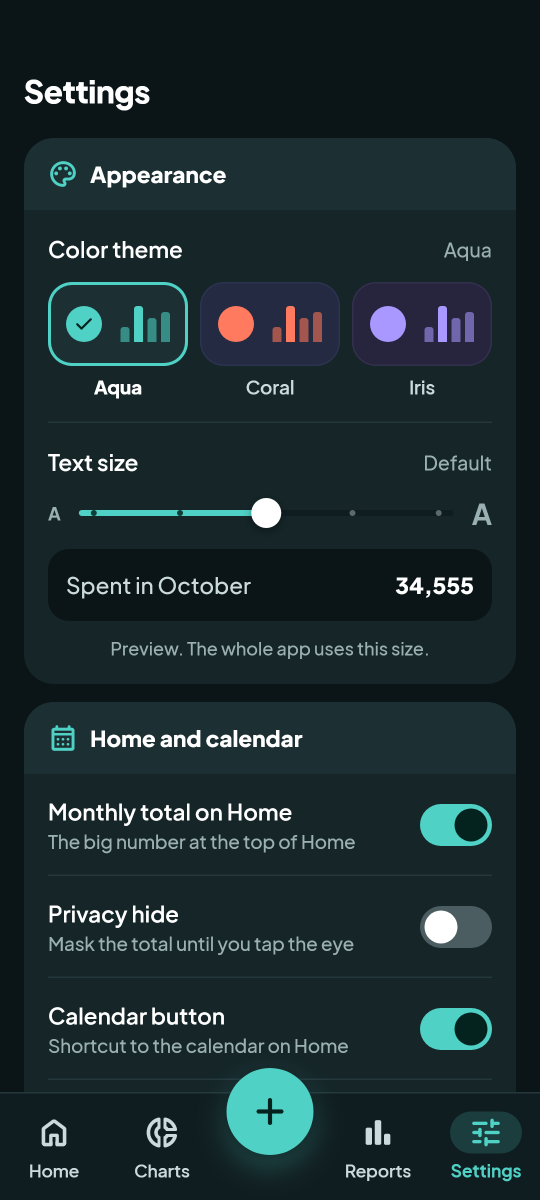
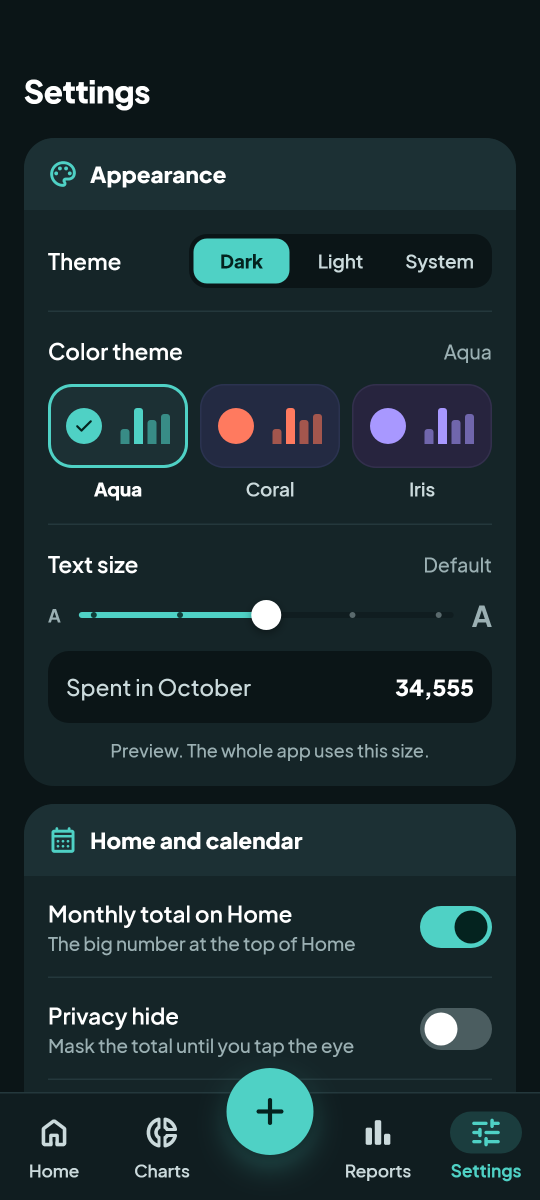
README: light mode screenshot, refreshed pictures, update notes
Add a light.png scene (Home in Aqua light) to the README shots test and
regenerate the pictures: themes.png now shows the Theme row (Dark / Light /
System); the other dark pictures are unchanged. README: add the light
picture, 64-bit APK is about 24 MB, either APK can update the other, and the
themes line mentions the Dark / Light / System choice.

diff --git a/app/test/shots/readme_shots_test.dart b/app/test/shots/readme_shots_test.dart
@@ -12,8 +12,7 @@
 /// flutter test --dart-define=README_SHOTS=true test/shots/readme_shots_test.dart
 /// ```
 ///
-/// To add a screen (for example `light.png` once the light theme is in), add
-/// one more entry to [_scenes] below.
+/// To add a screen, add one more entry to [_scenes] below.
 @Tags(['shots'])
 library;
 
@@ -98,9 +97,8 @@ Future<void> _keys(WidgetTester tester, String typed) async {
 
 /// Every picture of the README, in the order they appear there.
 ///
-/// Add new ones at the end (or where they belong). A light-theme picture
-/// would be `(name: 'light', scene: ...)` with the light setting passed to
-/// [_open].
+/// Add new ones at the end (or where they belong). The light-theme picture
+/// is Home in Aqua light: the `light` setting is passed to [_open].
 final List<Shot> _scenes = <Shot>[
   (
     name: 'home',
@@ -155,7 +153,19 @@ final List<Shot> _scenes = <Shot>[
     name: 'themes',
     scene: (tester, db) async {
       await _open(tester, db, location: Routes.settings);
+      expect(find.text('Theme'), findsOneWidget);
       expect(find.text('Color theme'), findsOneWidget);
+    },
+  ),
+  (
+    name: 'light',
+    scene: (tester, db) async {
+      await _open(
+        tester,
+        db,
+        settings: const AppSettings(themeMode: AppThemeMode.light),
+      );
+      expect(find.text('Doctor visit'), findsOneWidget);
     },
   ),
 ];

diff --git a/README.md b/README.md
@@ -13,12 +13,8 @@ Write down what you spend. See where your money goes. Everything stays on your o
 <p align="center">
   <img src="docs/screenshots/reports.png" width="200" alt="Reports: all-time total and a table of every month">
   <img src="docs/screenshots/pockets.png" width="200" alt="Pockets: switch between Personal, Business and Family trip">
-  <img src="docs/screenshots/themes.png" width="200" alt="Settings: choose a colour theme and a text size">
-  <!--
-    LIGHT THEME PICTURE (to add later): put the new file at
-    docs/screenshots/light.png, then add this line right here:
-    <img src="docs/screenshots/light.png" width="200" alt="The light theme">
-  -->
+  <img src="docs/screenshots/themes.png" width="200" alt="Settings: choose Dark, Light or System, a colour theme and a text size">
+  <img src="docs/screenshots/light.png" width="200" alt="Light mode: Home in the light theme">
 </p>
 
 ## ✨ What you can do
@@ -32,7 +28,7 @@ Write down what you spend. See where your money goes. Everything stays on your o
 - 👛 **Pockets.** Keep money apart, for example Home, Trip and Work. Each pocket has its own expenses. You can move an expense to another pocket later.
 - 📷 **Receipt photos.** Add a photo to an expense, from the camera or from your gallery.
 - 📤 **Export and import.** Save your expenses as an Excel or CSV file. Bring expenses in from a CSV, Excel or JSON file.
-- 🎭 **Three colour themes,** each in dark and light.
+- 🎭 **Three colour themes,** each in dark and light. In Settings, choose Dark, Light or System (System follows your phone).
 - 🔠 **Text size you can change,** so it is easy to read.
 - 🙈 **Hide the total.** Turn on Privacy hide to cover the big number until you tap the eye.
 - 🔢 **Numbers your way.** Choose how numbers look, like 1,234.50 or 1.234,50.
@@ -49,7 +45,7 @@ Write down what you spend. See where your money goes. Everything stays on your o
 You do not need the Play Store. You download one file and open it.
 
 1. 🌐 On your phone, open the **[Releases page](https://github.com/shoeb-gg/Expense-Tracker/releases/latest)**.
-2. ⬇ Under **Assets**, tap `Spill-the-Bills-<version>.apk` to download it. It is about 20 MB and works on most phones. (`<version>` is a number like 1.0.0.)
+2. ⬇ Under **Assets**, tap `Spill-the-Bills-<version>.apk` to download it. It is about 24 MB and works on most phones. (`<version>` is a number like 1.0.0.)
 3. 🔁 If your phone says the app can't be installed, download `Spill-the-Bills-<version>-all-phones.apk` instead. It is about 60 MB and works on every Android phone.
 4. 📂 Open the file you downloaded. Your phone may find it in the notification, in your browser's downloads, or in the Files app.
 5. ✅ When Android asks, allow installs from this source (this is usually your browser or Files app). Then tap **Install**.
@@ -61,7 +57,7 @@ You do not need the Play Store. You download one file and open it.
 
 ## 🔄 Updating
 
-Download the newer file from the [Releases page](https://github.com/shoeb-gg/Expense-Tracker/releases/latest) and install it over the old app. Your expenses stay. Tip: choose the same kind of file as the first time (the smaller one or the `all-phones` one).
+Download the newer file from the [Releases page](https://github.com/shoeb-gg/Expense-Tracker/releases/latest) and install it over the old app. Your expenses stay. Either file works for updating.
 
 ## 💾 Keeping your data safe
 
